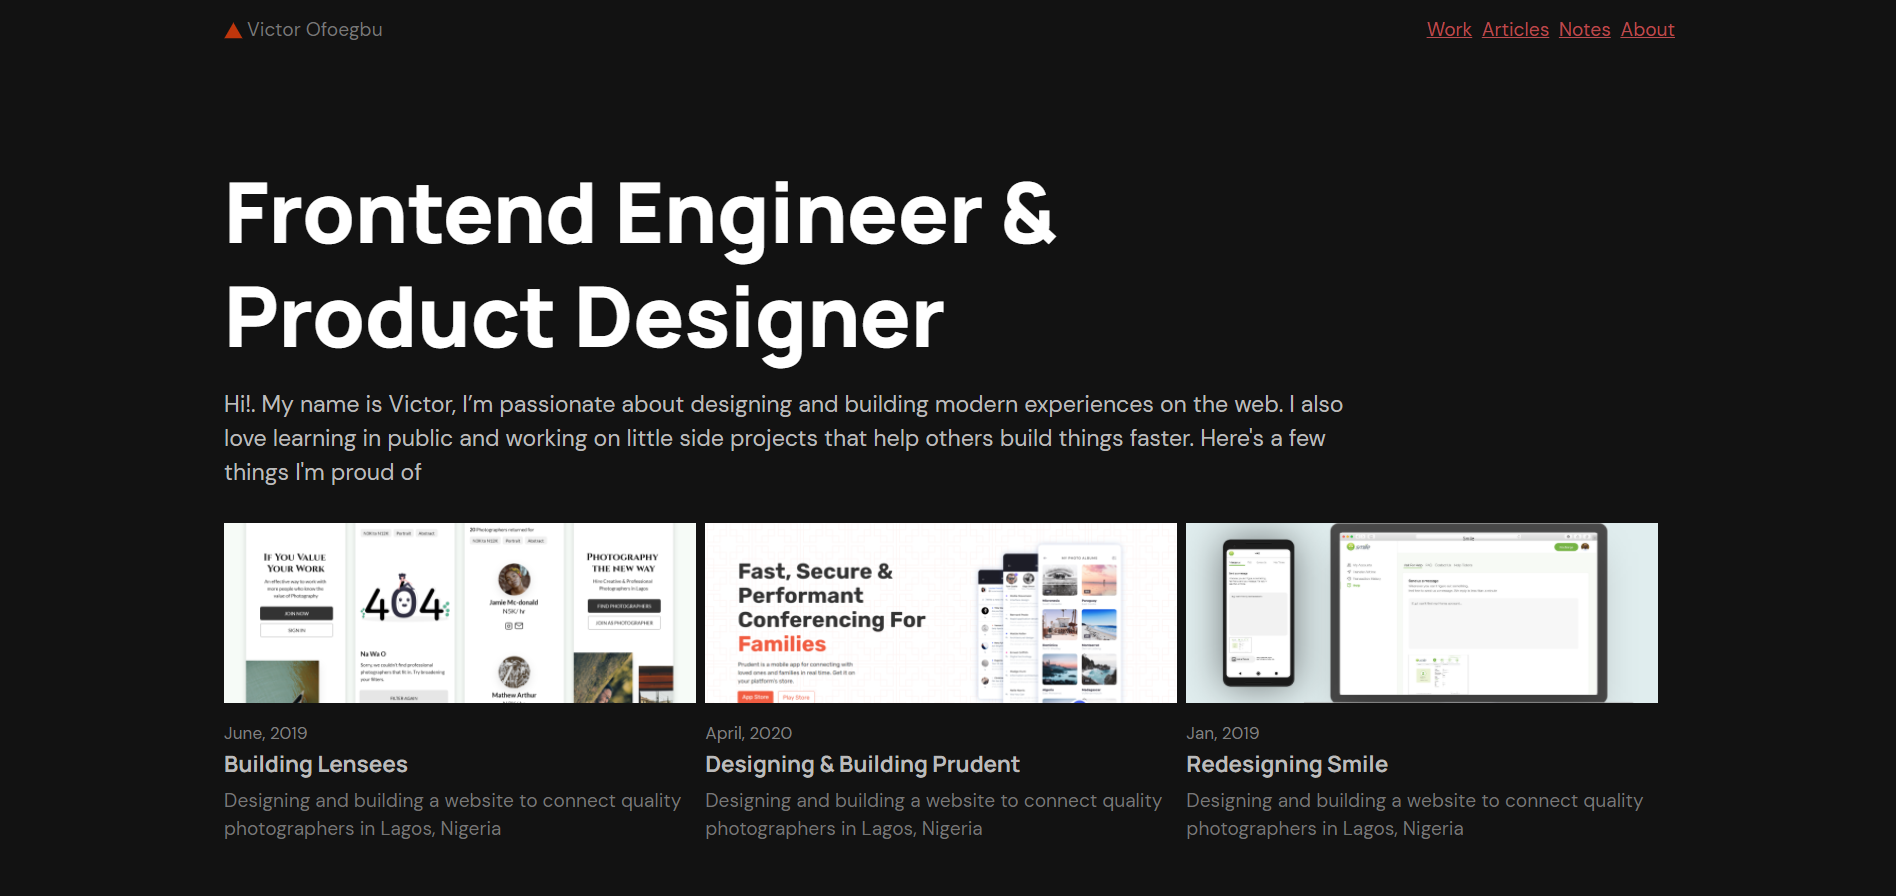
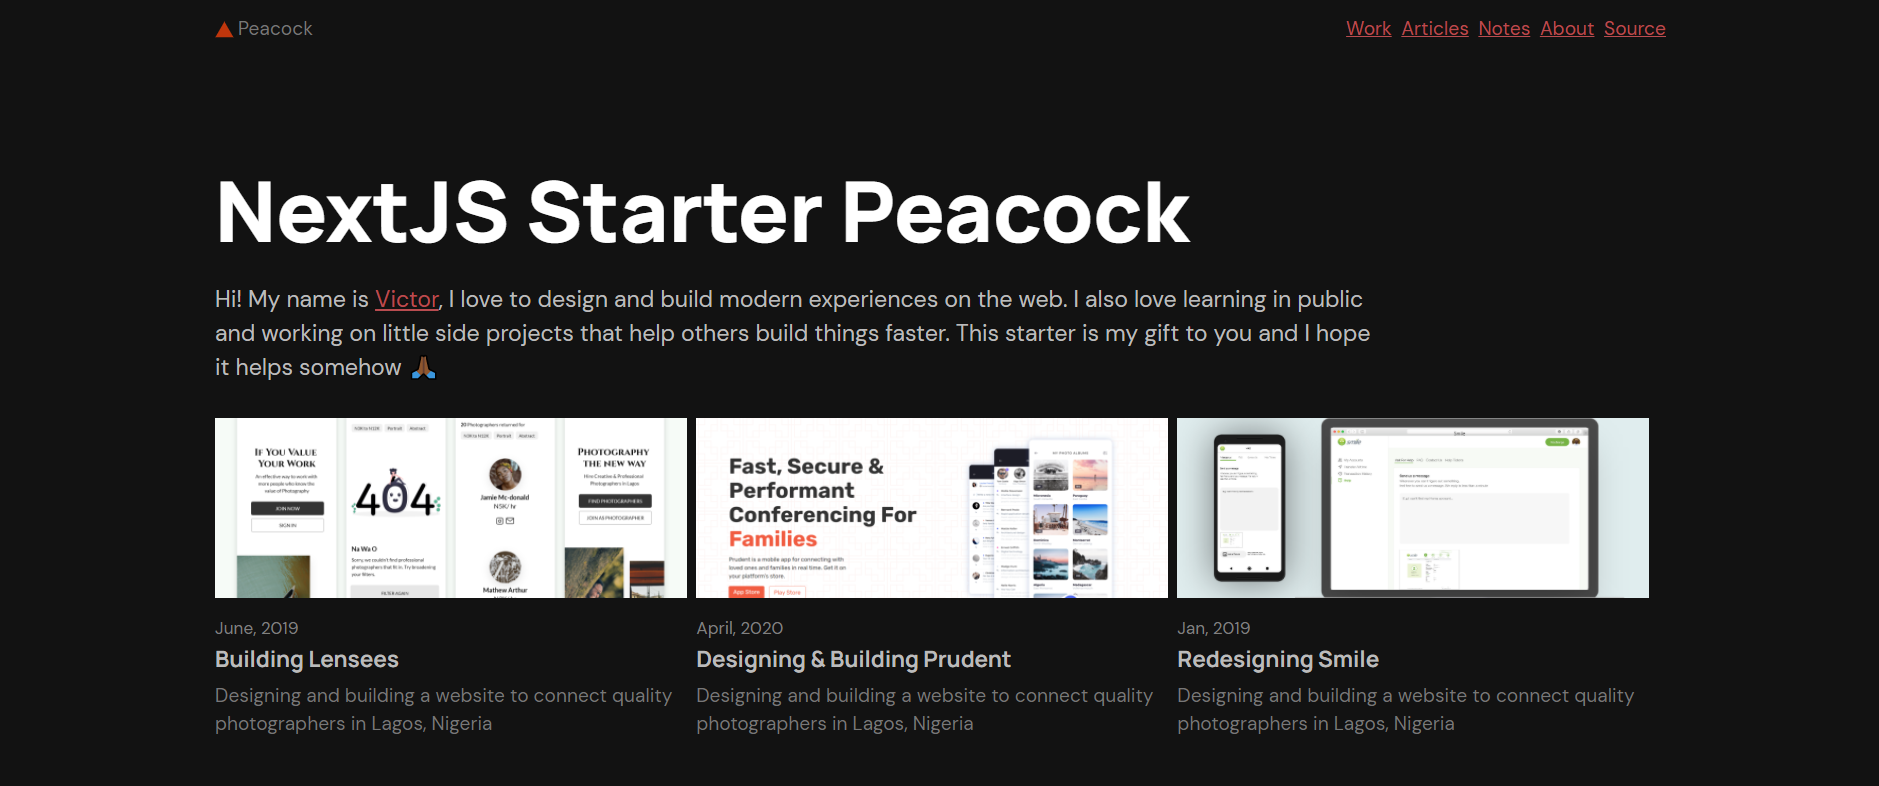
docs: fix typo, change preview image

Changed region(s): [[0.0926, 0.1832, 0.8952, 0.9466], [0.71, 0.0305, 0.8952, 0.0611], [0.0926, 0.0305, 0.2161, 0.0611]]

diff --git a/pages/index.tsx b/pages/index.tsx
@@ -16,7 +16,7 @@ import Link from "next/link";
 const Index: FC = ({ selectedWorks }) => {
   const { pathname } = useRouter();
   return (
-    <Layout pathname={pathname} pageTitle="Home page">
+    <Layout pathname={pathname} pageTitle="Nextjs Starter Peacock">
       <StyledIndexPage>
         <Container>
           <Cards data={selectedWorks} basePath="works" />
